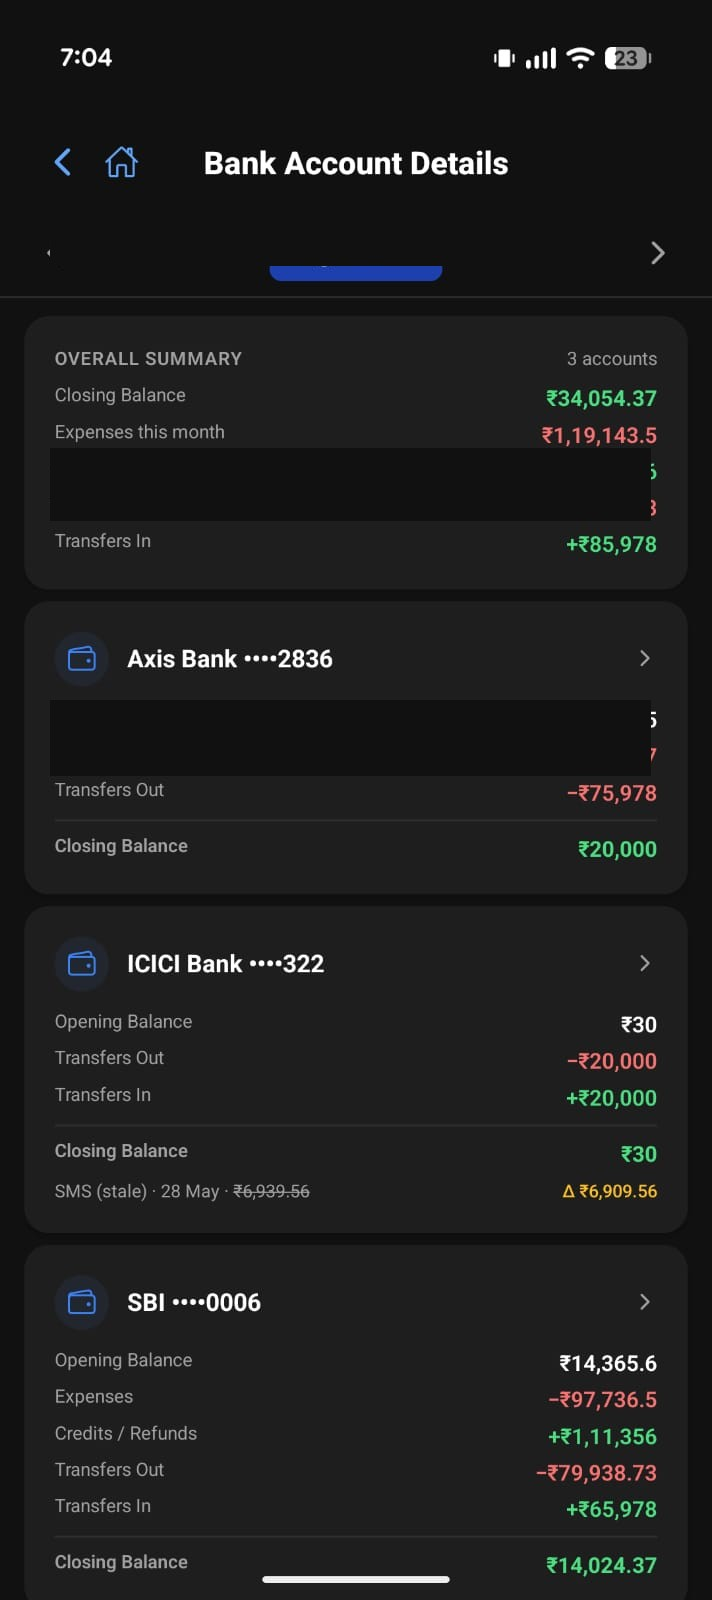
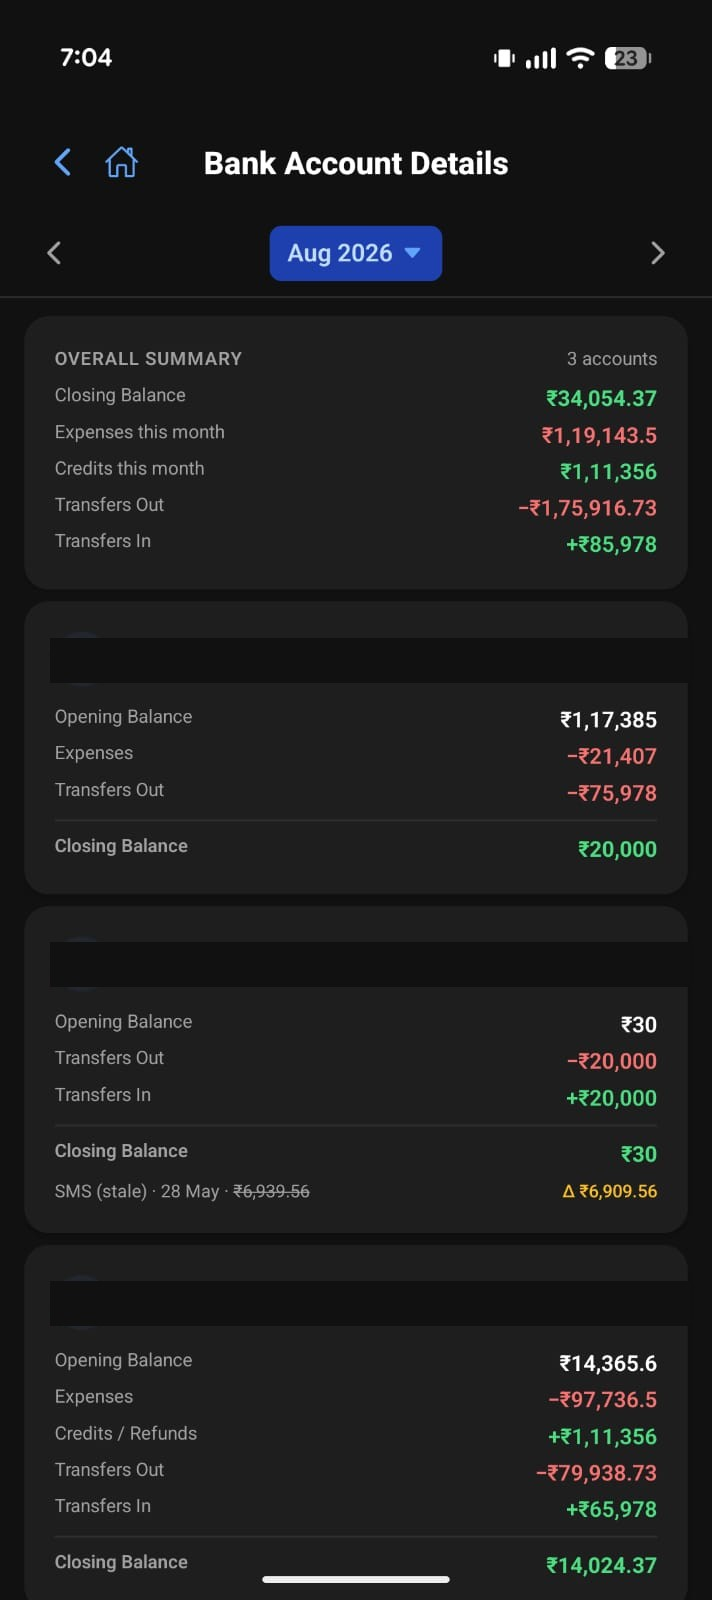
chore(screenshots): fix PII redaction in Bank Accounts and Reconciliation screenshots; update README title and SEO description

diff --git a/README.md b/README.md
@@ -1,6 +1,8 @@
-# Arth · अर्थ
+# Arth — Your Finance, Your Way
 
-A personal finance app for Android, built with React Native and Expo. Tracks expenses, budgets, accounts, investments, family ledgers, loans, and more — 100% local, zero cloud dependency.
+**Arth** is a private, offline personal finance app for Android. It auto-reads bank SMS messages to log transactions, tracks spending across budgets and categories, manages savings accounts, credit cards, wallets, loans and EMIs, and gives you a real-time net-worth picture — entirely on your device, with no cloud, no login, and no subscription.
+
+Built with React Native + Expo. No data leaves your phone.
 
 **Current version: v2.14.4**
 
